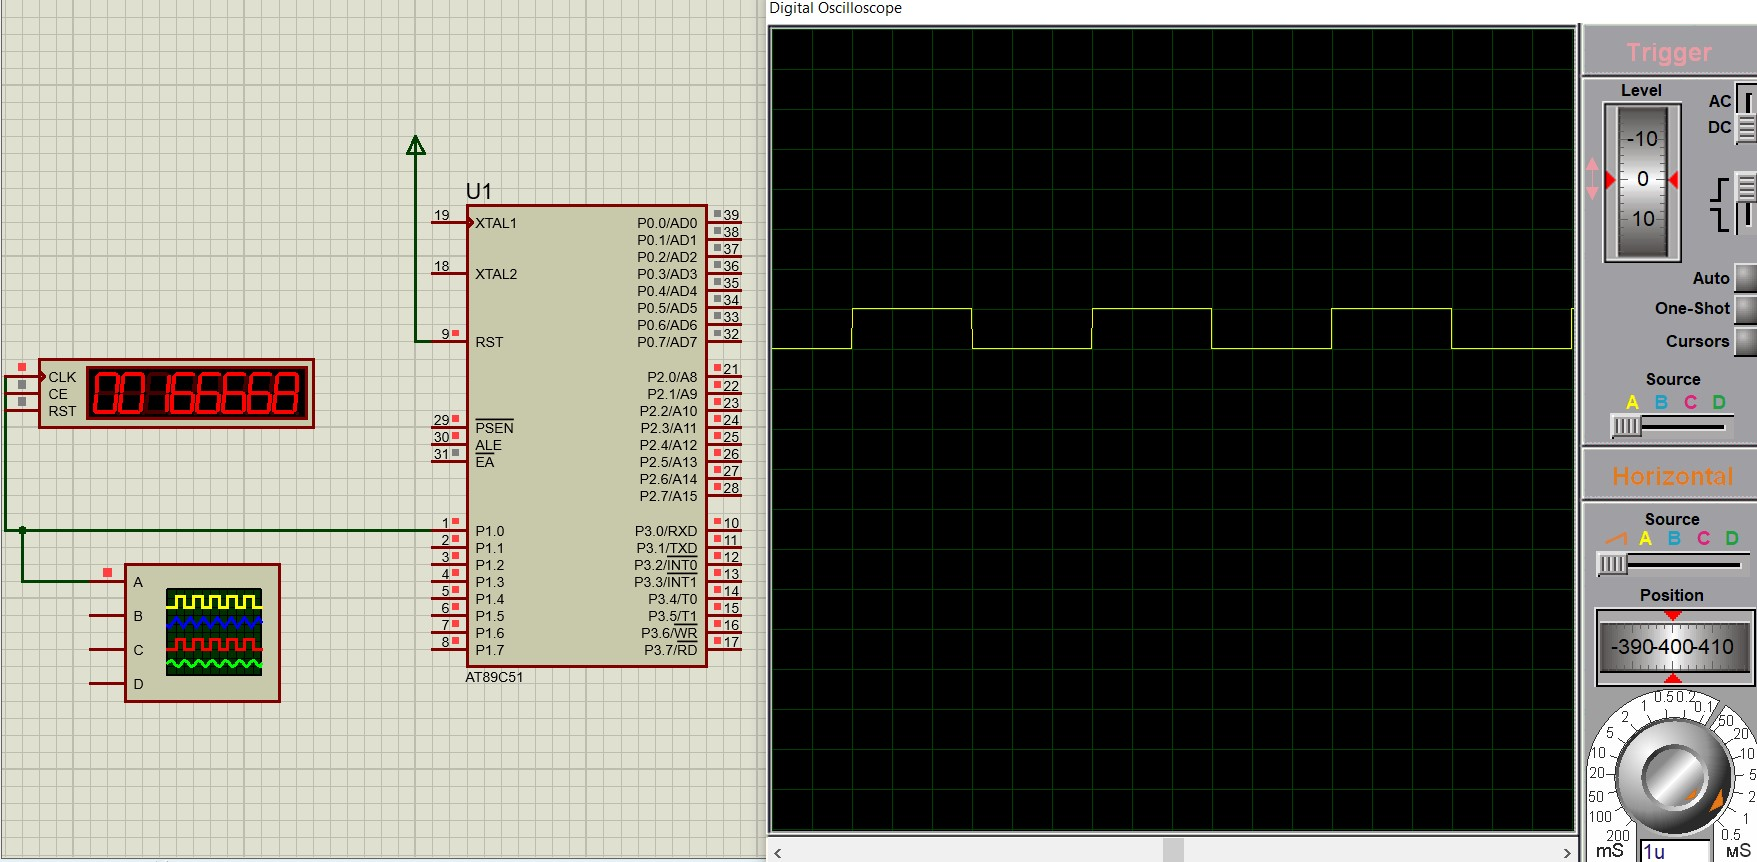
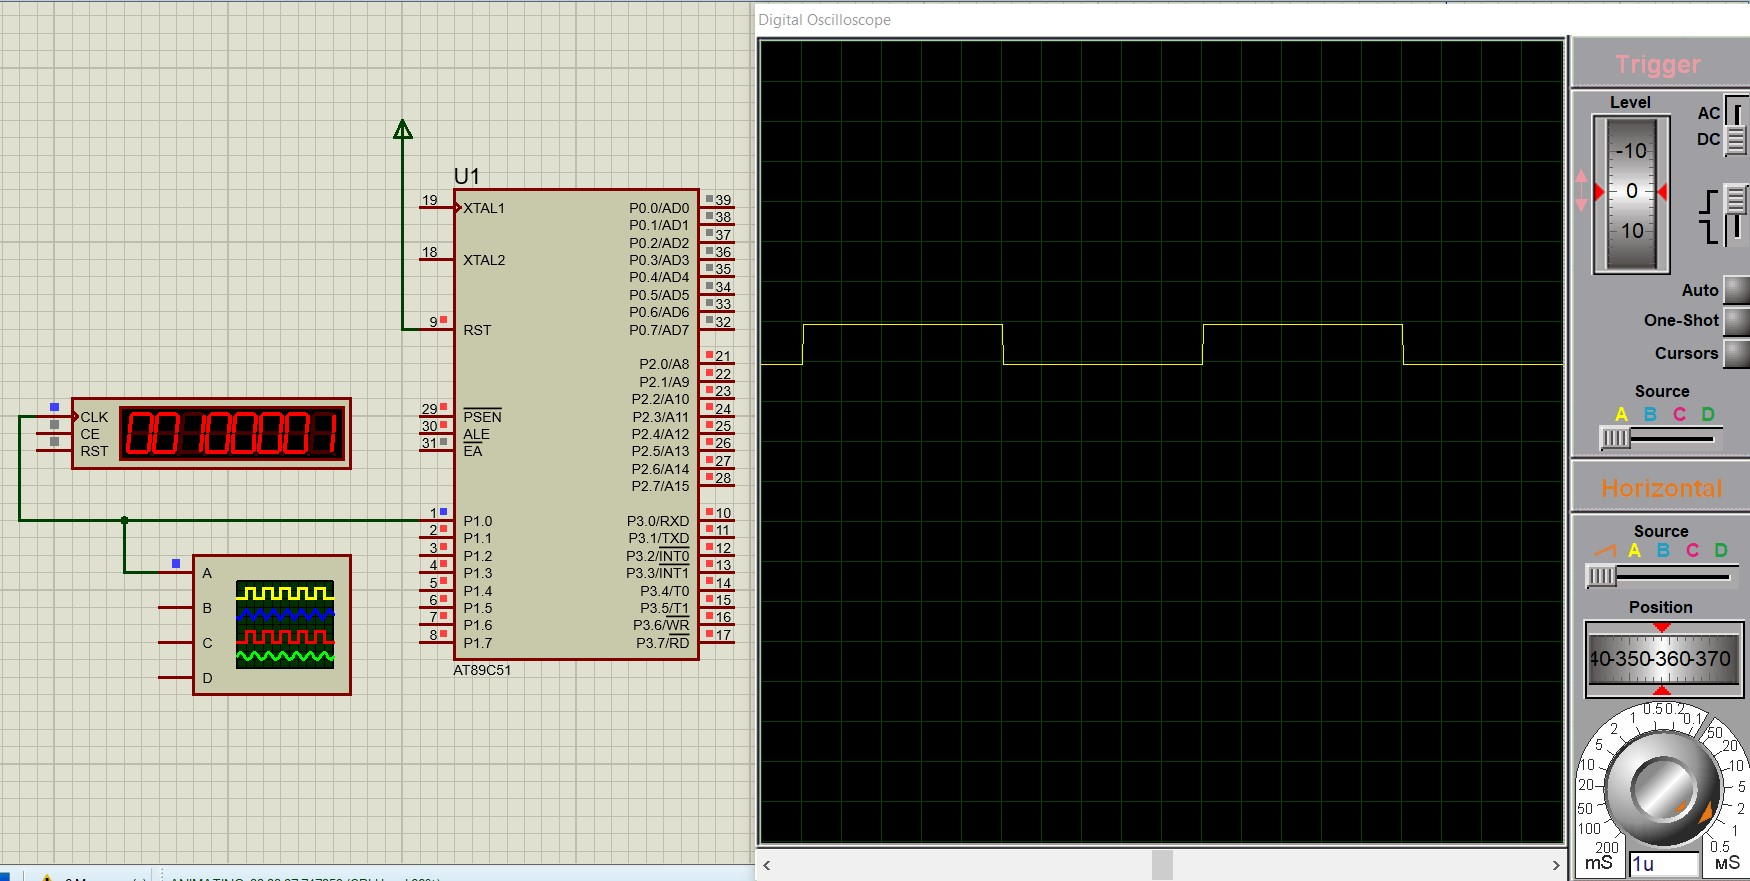
create_Pulse - ver 3.0 - freq 100KHz, duty cycle 50%

Changed region(s): [[0.0, 0.0, 1.0, 1.0]]

diff --git a/README.md b/README.md
@@ -8,3 +8,4 @@
     - create_Pulse: 
         + Version 1: the highest possible frequency, duty cycle is 25%.
         + Version 2: the highest possible frequency, duty cycle is 50%.
+        + Version 3: frequency is 100KHz, duty cycle is 50%.
